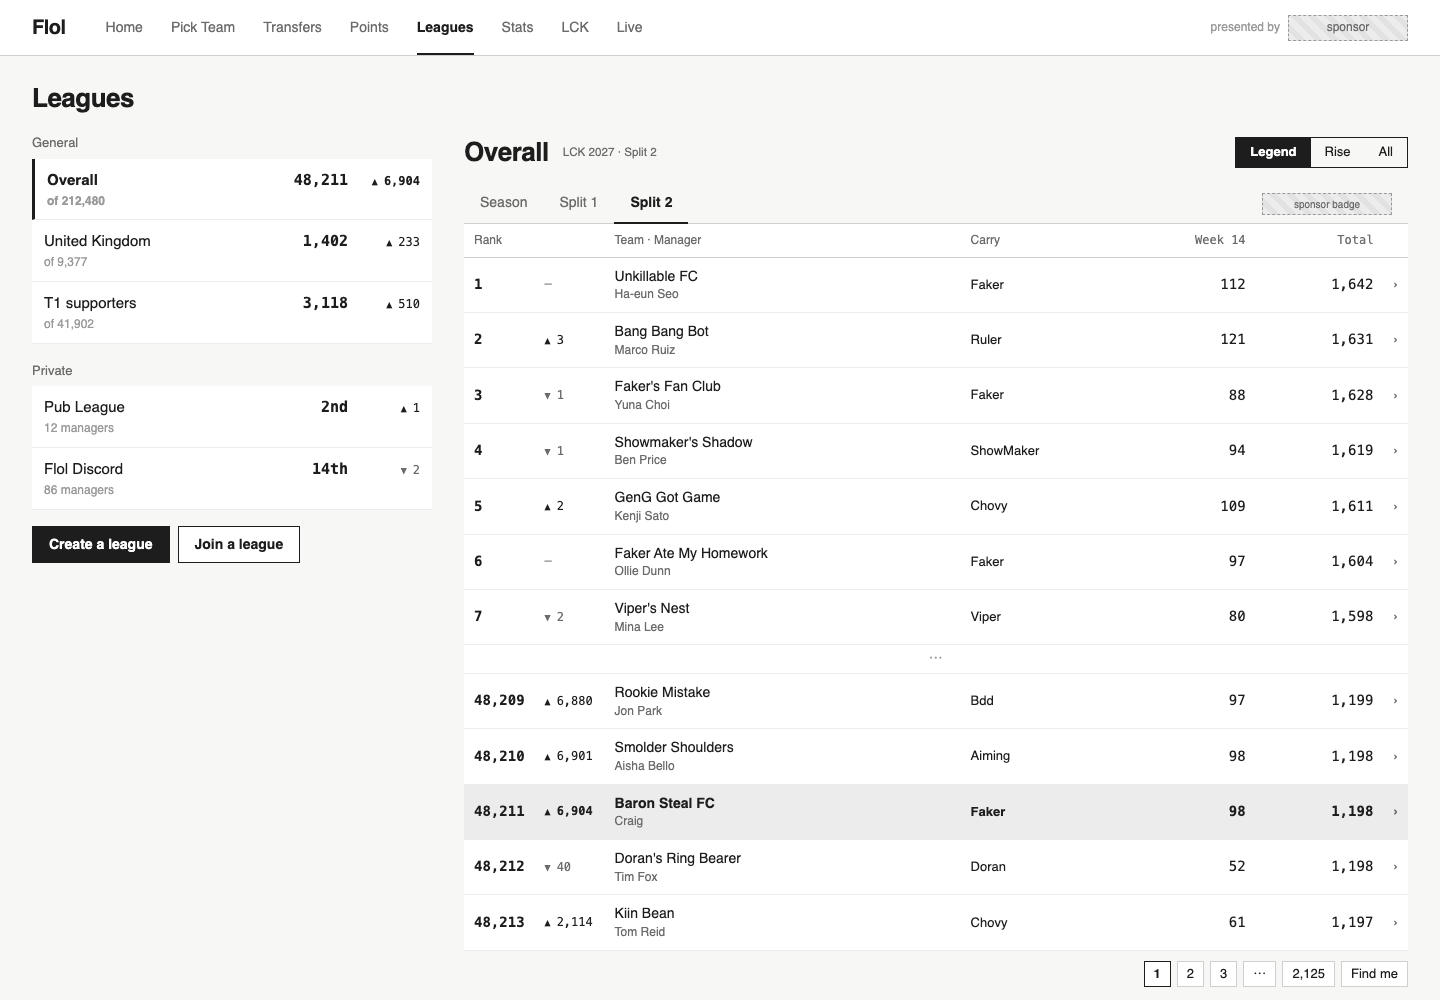
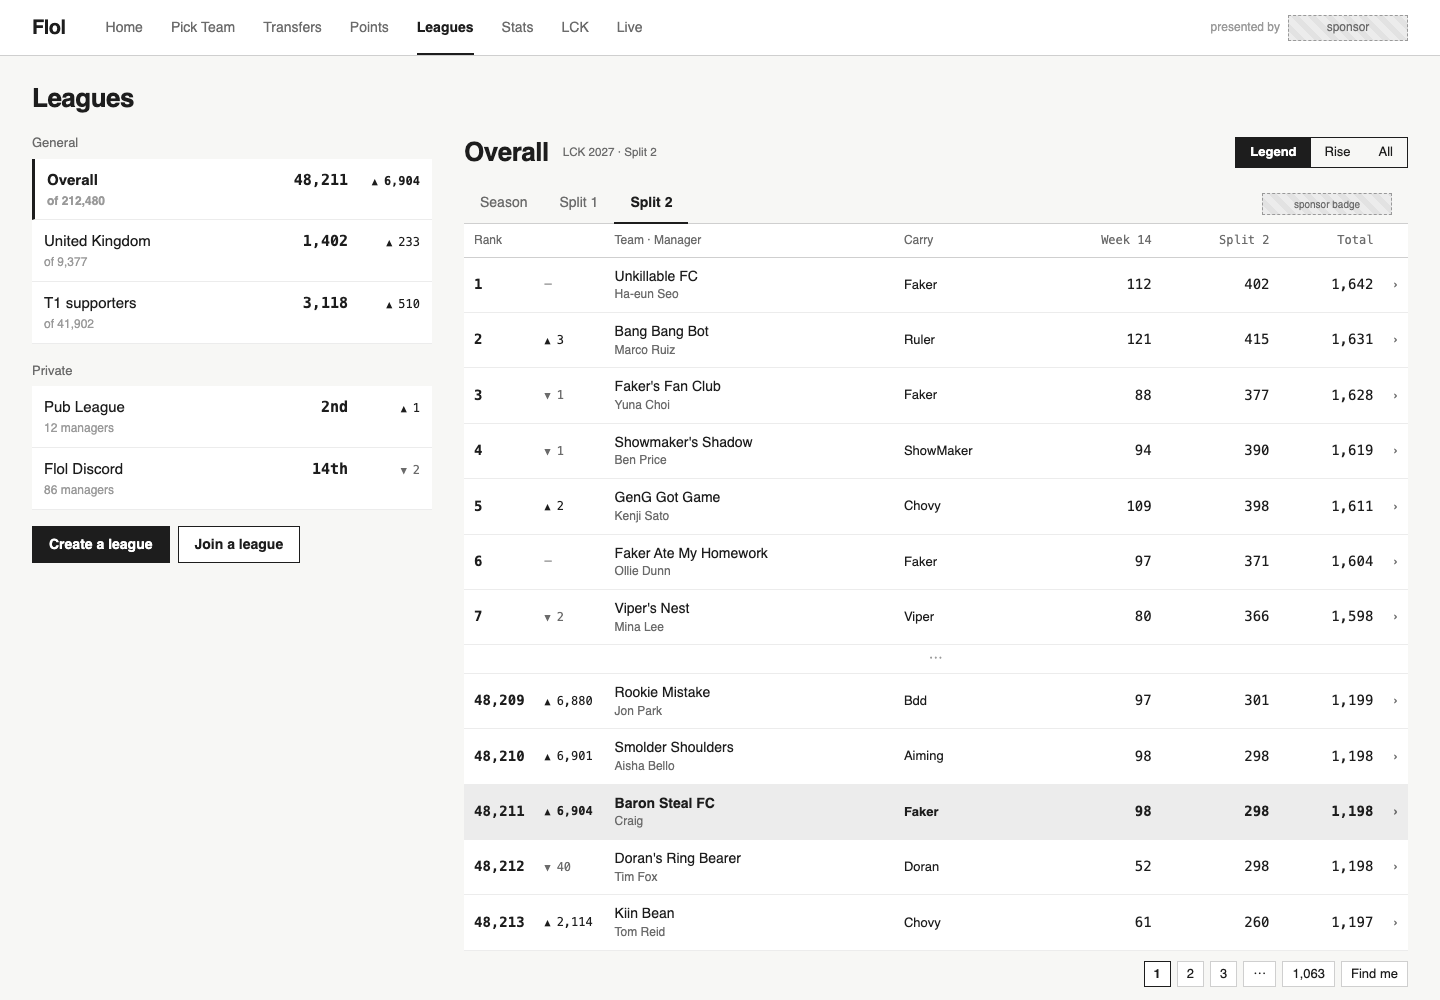
docs: Leagues round; Craig's calls drawn (Split 2 column, scoring from this week)

diff --git a/docs/design/proposals/2026-11-13-leagues/a2.html b/docs/design/proposals/2026-11-13-leagues/a2.html
@@ -66,5 +66,5 @@ table.st td.cy { font-size: 13px; width: 150px; }
 </div>
 <div><div class="hd"><h1>Overall</h1><small>LCK 2027 · Split 2</small><span class="sp"></span><span class="seg"><span class="on">Legend</span><span>Rise</span><span>All</span></span></div>
 <div class="tabs"><span>Season</span><span>Split 1</span><span class="on">Split 2</span><span style="flex:1;border:0"></span><span style="border:0"><span class="ph" style="width:130px;height:22px;font-size:10px">sponsor badge</span></span></div>
-<table class="st"><tr><th>Rank</th><th></th><th>Team · Manager</th><th>Carry</th><th class="n">Week 14</th><th class="n">Total</th><th></th></tr><tr class=""><td class="rk">1</td><td class="mv" style="color:var(--soft)">–</td><td>Unkillable FC<small>Ha-eun Seo</small></td><td class="cy">Faker</td><td class="n">112</td><td class="n">1,642</td><td class="go">›</td></tr><tr class=""><td class="rk">2</td><td class="mv up">3</td><td>Bang Bang Bot<small>Marco Ruiz</small></td><td class="cy">Ruler</td><td class="n">121</td><td class="n">1,631</td><td class="go">›</td></tr><tr class=""><td class="rk">3</td><td class="mv down">1</td><td>Faker's Fan Club<small>Yuna Choi</small></td><td class="cy">Faker</td><td class="n">88</td><td class="n">1,628</td><td class="go">›</td></tr><tr class=""><td class="rk">4</td><td class="mv down">1</td><td>Showmaker's Shadow<small>Ben Price</small></td><td class="cy">ShowMaker</td><td class="n">94</td><td class="n">1,619</td><td class="go">›</td></tr><tr class=""><td class="rk">5</td><td class="mv up">2</td><td>GenG Got Game<small>Kenji Sato</small></td><td class="cy">Chovy</td><td class="n">109</td><td class="n">1,611</td><td class="go">›</td></tr><tr class=""><td class="rk">6</td><td class="mv" style="color:var(--soft)">–</td><td>Faker Ate My Homework<small>Ollie Dunn</small></td><td class="cy">Faker</td><td class="n">97</td><td class="n">1,604</td><td class="go">›</td></tr><tr class=""><td class="rk">7</td><td class="mv down">2</td><td>Viper's Nest<small>Mina Lee</small></td><td class="cy">Viper</td><td class="n">80</td><td class="n">1,598</td><td class="go">›</td></tr><tr class="gap"><td colspan="7">⋯</td></tr><tr class=""><td class="rk">48,209</td><td class="mv up">6,880</td><td>Rookie Mistake<small>Jon Park</small></td><td class="cy">Bdd</td><td class="n">97</td><td class="n">1,199</td><td class="go">›</td></tr><tr class=""><td class="rk">48,210</td><td class="mv up">6,901</td><td>Smolder Shoulders<small>Aisha Bello</small></td><td class="cy">Aiming</td><td class="n">98</td><td class="n">1,198</td><td class="go">›</td></tr><tr class="me"><td class="rk">48,211</td><td class="mv up">6,904</td><td>Baron Steal FC<small>Craig</small></td><td class="cy">Faker</td><td class="n">98</td><td class="n">1,198</td><td class="go">›</td></tr><tr class=""><td class="rk">48,212</td><td class="mv down">40</td><td>Doran's Ring Bearer<small>Tim Fox</small></td><td class="cy">Doran</td><td class="n">52</td><td class="n">1,198</td><td class="go">›</td></tr><tr class=""><td class="rk">48,213</td><td class="mv up">2,114</td><td>Kiin Bean<small>Tom Reid</small></td><td class="cy">Chovy</td><td class="n">61</td><td class="n">1,197</td><td class="go">›</td></tr></table>
-<div class="pager"><span class="on">1</span><span>2</span><span>3</span><span>⋯</span><span>2,125</span><span>Find me</span></div></div></div><div class="made" style="margin-top:28px">All sponsors are made up.</div></div></body></html>
+<table class="st"><tr><th>Rank</th><th></th><th>Team · Manager</th><th>Carry</th><th class="n">Week 14</th><th class="n">Split 2</th><th class="n">Total</th><th></th></tr><tr class=""><td class="rk">1</td><td class="mv" style="color:var(--soft)">–</td><td>Unkillable FC<small>Ha-eun Seo</small></td><td class="cy">Faker</td><td class="n">112</td><td class="n">402</td><td class="n">1,642</td><td class="go">›</td></tr><tr class=""><td class="rk">2</td><td class="mv up">3</td><td>Bang Bang Bot<small>Marco Ruiz</small></td><td class="cy">Ruler</td><td class="n">121</td><td class="n">415</td><td class="n">1,631</td><td class="go">›</td></tr><tr class=""><td class="rk">3</td><td class="mv down">1</td><td>Faker's Fan Club<small>Yuna Choi</small></td><td class="cy">Faker</td><td class="n">88</td><td class="n">377</td><td class="n">1,628</td><td class="go">›</td></tr><tr class=""><td class="rk">4</td><td class="mv down">1</td><td>Showmaker's Shadow<small>Ben Price</small></td><td class="cy">ShowMaker</td><td class="n">94</td><td class="n">390</td><td class="n">1,619</td><td class="go">›</td></tr><tr class=""><td class="rk">5</td><td class="mv up">2</td><td>GenG Got Game<small>Kenji Sato</small></td><td class="cy">Chovy</td><td class="n">109</td><td class="n">398</td><td class="n">1,611</td><td class="go">›</td></tr><tr class=""><td class="rk">6</td><td class="mv" style="color:var(--soft)">–</td><td>Faker Ate My Homework<small>Ollie Dunn</small></td><td class="cy">Faker</td><td class="n">97</td><td class="n">371</td><td class="n">1,604</td><td class="go">›</td></tr><tr class=""><td class="rk">7</td><td class="mv down">2</td><td>Viper's Nest<small>Mina Lee</small></td><td class="cy">Viper</td><td class="n">80</td><td class="n">366</td><td class="n">1,598</td><td class="go">›</td></tr><tr class="gap"><td colspan="8">⋯</td></tr><tr class=""><td class="rk">48,209</td><td class="mv up">6,880</td><td>Rookie Mistake<small>Jon Park</small></td><td class="cy">Bdd</td><td class="n">97</td><td class="n">301</td><td class="n">1,199</td><td class="go">›</td></tr><tr class=""><td class="rk">48,210</td><td class="mv up">6,901</td><td>Smolder Shoulders<small>Aisha Bello</small></td><td class="cy">Aiming</td><td class="n">98</td><td class="n">298</td><td class="n">1,198</td><td class="go">›</td></tr><tr class="me"><td class="rk">48,211</td><td class="mv up">6,904</td><td>Baron Steal FC<small>Craig</small></td><td class="cy">Faker</td><td class="n">98</td><td class="n">298</td><td class="n">1,198</td><td class="go">›</td></tr><tr class=""><td class="rk">48,212</td><td class="mv down">40</td><td>Doran's Ring Bearer<small>Tim Fox</small></td><td class="cy">Doran</td><td class="n">52</td><td class="n">298</td><td class="n">1,198</td><td class="go">›</td></tr><tr class=""><td class="rk">48,213</td><td class="mv up">2,114</td><td>Kiin Bean<small>Tom Reid</small></td><td class="cy">Chovy</td><td class="n">61</td><td class="n">260</td><td class="n">1,197</td><td class="go">›</td></tr></table>
+<div class="pager"><span class="on">1</span><span>2</span><span>3</span><span>⋯</span><span>1,063</span><span>Find me</span></div></div></div><div class="made" style="margin-top:28px">All sponsors are made up.</div></div></body></html>

diff --git a/docs/design/proposals/2026-11-13-leagues/a4b.html b/docs/design/proposals/2026-11-13-leagues/a4b.html
@@ -84,6 +84,6 @@ body { position: relative; }
 <div><div class="hd"><h1>Pub League</h1><small>scoring from Week 1</small><span class="sp"></span><span class="code">PUB-7K2Q</span><span class="btn">Copy link</span><span class="btn">Admin ▾</span></div>
 <div class="tabs"><span class="on">Season</span><span>Split 1</span><span>Split 2</span></div>
 <table class="st"><tr><th>Rank</th><th></th><th>Team · Manager</th><th>Carry</th><th class="n">Week 14</th><th class="n">Total</th><th></th></tr><tr class=""><td class="rk">1</td><td class="mv" style="color:var(--soft)">–</td><td>Kiin Bean<small>Tom Reid</small></td><td class="cy">Chovy</td><td class="n">61</td><td class="n">1,214</td><td class="go">›</td></tr><tr class="me"><td class="rk">2</td><td class="mv up">1</td><td>Baron Steal FC <span class="chase">16 pts to 1st</span><small>Craig</small></td><td class="cy">Faker</td><td class="n">98</td><td class="n">1,198</td><td class="go">›</td></tr><tr class=""><td class="rk">3</td><td class="mv down">1</td><td>Chovy Was Right There<small>Minji Park</small></td><td class="cy">Chovy</td><td class="n">54</td><td class="n">1,187</td><td class="go">›</td></tr><tr class=""><td class="rk">4</td><td class="mv up">2</td><td>Peanut Butter Gank<small>Dan Okafor</small></td><td class="cy">Peyz</td><td class="n">77</td><td class="n">1,160</td><td class="go">›</td></tr><tr class=""><td class="rk">5</td><td class="mv" style="color:var(--soft)">–</td><td>Deft Tomorrow<small>Jae Kim</small></td><td class="cy">Ruler</td><td class="n">66</td><td class="n">1,151</td><td class="go">›</td></tr><tr class=""><td class="rk">6</td><td class="mv down">2</td><td>Guma Gang<small>Sam Hill</small></td><td class="cy">Gumayusi</td><td class="n">49</td><td class="n">1,139</td><td class="go">›</td></tr><tr class=""><td class="rk">7</td><td class="mv up">1</td><td>Zeus Juice<small>Priya Shah</small></td><td class="cy">Zeus</td><td class="n">70</td><td class="n">1,122</td><td class="go">›</td></tr><tr class=""><td class="rk">8</td><td class="mv down">1</td><td>Smeb Nostalgia<small>Liam Byrne</small></td><td class="cy">Kiin</td><td class="n">58</td><td class="n">1,108</td><td class="go">›</td></tr><tr class=""><td class="rk">9</td><td class="mv" style="color:var(--soft)">–</td><td>Ruler of None<small>Ella Wong</small></td><td class="cy">Aiming</td><td class="n">63</td><td class="n">1,097</td><td class="go">›</td></tr><tr class=""><td class="rk">10</td><td class="mv up">1</td><td>BeryL Backup Plan<small>Joe Grant</small></td><td class="cy">Keria</td><td class="n">72</td><td class="n">1,080</td><td class="go">›</td></tr><tr class=""><td class="rk">11</td><td class="mv down">1</td><td>Ambition FC<small>Chris Lee</small></td><td class="cy">Canyon</td><td class="n">41</td><td class="n">1,052</td><td class="go">›</td></tr><tr class=""><td class="rk">12</td><td class="mv" style="color:var(--soft)">–</td><td>Gank Plank<small>Ruth Ade</small></td><td class="cy">Faker</td><td class="n">55</td><td class="n">1,019</td><td class="go">›</td></tr></table></div></div><div class="dim"></div><div class="sheet"><h2>Office Rift</h2>
-<div style="color:var(--mid);font-size:13px">Scoring from Week 15</div>
+<div style="color:var(--mid);font-size:13px">Scoring from Week 14</div>
 <div class="done"><b>OFF-9R3D</b><span class="btn">Copy code</span><span class="btn">Copy link</span></div>
 <div class="row"><span class="btn dark">Open league</span></div></div><div class="made" style="margin-top:28px">All sponsors are made up.</div></div></body></html>

diff --git a/docs/design/proposals/2026-11-13-leagues/a4.html b/docs/design/proposals/2026-11-13-leagues/a4.html
@@ -85,6 +85,6 @@ body { position: relative; }
 <div class="tabs"><span class="on">Season</span><span>Split 1</span><span>Split 2</span></div>
 <table class="st"><tr><th>Rank</th><th></th><th>Team · Manager</th><th>Carry</th><th class="n">Week 14</th><th class="n">Total</th><th></th></tr><tr class=""><td class="rk">1</td><td class="mv" style="color:var(--soft)">–</td><td>Kiin Bean<small>Tom Reid</small></td><td class="cy">Chovy</td><td class="n">61</td><td class="n">1,214</td><td class="go">›</td></tr><tr class="me"><td class="rk">2</td><td class="mv up">1</td><td>Baron Steal FC <span class="chase">16 pts to 1st</span><small>Craig</small></td><td class="cy">Faker</td><td class="n">98</td><td class="n">1,198</td><td class="go">›</td></tr><tr class=""><td class="rk">3</td><td class="mv down">1</td><td>Chovy Was Right There<small>Minji Park</small></td><td class="cy">Chovy</td><td class="n">54</td><td class="n">1,187</td><td class="go">›</td></tr><tr class=""><td class="rk">4</td><td class="mv up">2</td><td>Peanut Butter Gank<small>Dan Okafor</small></td><td class="cy">Peyz</td><td class="n">77</td><td class="n">1,160</td><td class="go">›</td></tr><tr class=""><td class="rk">5</td><td class="mv" style="color:var(--soft)">–</td><td>Deft Tomorrow<small>Jae Kim</small></td><td class="cy">Ruler</td><td class="n">66</td><td class="n">1,151</td><td class="go">›</td></tr><tr class=""><td class="rk">6</td><td class="mv down">2</td><td>Guma Gang<small>Sam Hill</small></td><td class="cy">Gumayusi</td><td class="n">49</td><td class="n">1,139</td><td class="go">›</td></tr><tr class=""><td class="rk">7</td><td class="mv up">1</td><td>Zeus Juice<small>Priya Shah</small></td><td class="cy">Zeus</td><td class="n">70</td><td class="n">1,122</td><td class="go">›</td></tr><tr class=""><td class="rk">8</td><td class="mv down">1</td><td>Smeb Nostalgia<small>Liam Byrne</small></td><td class="cy">Kiin</td><td class="n">58</td><td class="n">1,108</td><td class="go">›</td></tr><tr class=""><td class="rk">9</td><td class="mv" style="color:var(--soft)">–</td><td>Ruler of None<small>Ella Wong</small></td><td class="cy">Aiming</td><td class="n">63</td><td class="n">1,097</td><td class="go">›</td></tr><tr class=""><td class="rk">10</td><td class="mv up">1</td><td>BeryL Backup Plan<small>Joe Grant</small></td><td class="cy">Keria</td><td class="n">72</td><td class="n">1,080</td><td class="go">›</td></tr><tr class=""><td class="rk">11</td><td class="mv down">1</td><td>Ambition FC<small>Chris Lee</small></td><td class="cy">Canyon</td><td class="n">41</td><td class="n">1,052</td><td class="go">›</td></tr><tr class=""><td class="rk">12</td><td class="mv" style="color:var(--soft)">–</td><td>Gank Plank<small>Ruth Ade</small></td><td class="cy">Faker</td><td class="n">55</td><td class="n">1,019</td><td class="go">›</td></tr></table></div></div><div class="dim"></div><div class="sheet"><h2>Create a league</h2>
 <label>Name</label><div class="in">Office Rift<span class="soft">11 / 30</span></div>
-<label>Scoring starts</label><div class="in">Week 15 · Wed 17 Feb<span>▾</span></div>
+<label>Scoring starts</label><div class="in">Week 14 · Wed 10 Feb<span>▾</span></div>
 <div class="row"><a class="back">Back</a><span class="btn dark">Create</span></div>
 <div class="count">Private leagues: 2 of 25</div></div><div class="made" style="margin-top:28px">All sponsors are made up.</div></div></body></html>

diff --git a/docs/design/proposals/2026-11-13-leagues/build.py b/docs/design/proposals/2026-11-13-leagues/build.py
@@ -158,7 +158,7 @@ A2 = A.replace(lst_row(*MINE[0]), OV_ROW).replace(lst_row(*PRIV[0], on=True), ls
 a2_right = f'''<div><div class="hd"><h1>Overall</h1><small>LCK 2027 · Split 2</small><span class="sp"></span><span class="seg"><span class="on">Legend</span><span>Rise</span><span>All</span></span></div>
 <div class="tabs"><span>Season</span><span>Split 1</span><span class="on">Split 2</span><span style="flex:1;border:0"></span><span style="border:0"><span class="ph" style="width:130px;height:22px;font-size:10px">sponsor badge</span></span></div>
 <table class="st">{HEAD}{rows(LEG)}<tr class="gap"><td colspan="7">⋯</td></tr>{rows(NEAR)}</table>
-<div class="pager"><span class="on">1</span><span>2</span><span>3</span><span>⋯</span><span>2,125</span><span>Find me</span></div></div>'''
+<div class="pager"><span class="on">1</span><span>2</span><span>3</span><span>⋯</span><span>1,063</span><span>Find me</span></div></div>'''
 start = A2.index('<div><div class="hd"><h1>Pub League</h1>')
 A2 = A2[:start] + a2_right + '</div>'
 A2 = A2.replace('<td>Baron Steal FC <span class="chase">16 pts to 1st</span><small>Craig</small></td>', '<td>Baron Steal FC <span class="chase">1 to climb</span><small>Craig</small></td>')
@@ -189,13 +189,13 @@ MENU = '''<div class="menu"><a>Rename</a><a>Remove a manager</a><a class="bad">D
 
 CREATE = '''<div class="dim"></div><div class="sheet"><h2>Create a league</h2>
 <label>Name</label><div class="in">Office Rift<span class="soft">11 / 30</span></div>
-<label>Scoring starts</label><div class="in">Week 15 · Wed 17 Feb<span>▾</span></div>
+<label>Scoring starts</label><div class="in">Week 14 · Wed 10 Feb<span>▾</span></div>
 <div class="row"><a class="back">Back</a><span class="btn dark">Create</span></div>
 <div class="count">Private leagues: 2 of 25</div></div>'''
 (d / "a4.html").write_text(page("Leagues · A4 · Create", A + CREATE, A_CSS + CH + SHEET_CSS))
 
 CREATED = '''<div class="dim"></div><div class="sheet"><h2>Office Rift</h2>
-<div style="color:var(--mid);font-size:13px">Scoring from Week 15</div>
+<div style="color:var(--mid);font-size:13px">Scoring from Week 14</div>
 <div class="done"><b>OFF-9R3D</b><span class="btn">Copy code</span><span class="btn">Copy link</span></div>
 <div class="row"><span class="btn dark">Open league</span></div></div>'''
 (d / "a4b.html").write_text(page("Leagues · A4b · Created", A + CREATED, A_CSS + CH + SHEET_CSS))
@@ -235,3 +235,12 @@ LEAVE = '''<div class="dim"></div><div class="sheet"><h2>Leave Flol Discord?</h2
 <div style="font-size:15px">14th of 86</div>
 <div class="row"><a class="back">Back</a><span class="btn dark">Leave</span></div></div>'''
 (d / "a8.html").write_text(page("Leagues · A8 · Leave", MEMBER2 + LEAVE, A_CSS + CH + SHEET_CSS))
+
+# Split 2 on Legend/Rise (Craig, 14 Nov): Total is season points, with a Split 2 column beside it.
+SP2 = {"1,642": "402", "1,631": "415", "1,628": "377", "1,619": "390", "1,611": "398", "1,604": "371", "1,598": "366",
+       "1,199": "301", "1,198": "298", "1,197": "260"}
+import re as _re
+A2b = A2.replace('<th class="n">Week 14</th><th class="n">Total</th>', '<th class="n">Week 14</th><th class="n">Split 2</th><th class="n">Total</th>')
+A2b = _re.sub(r'<td class="n">(\d+)</td><td class="n">([\d,]+)</td>', lambda m: f'<td class="n">{m.group(1)}</td><td class="n">{SP2.get(m.group(2), "300")}</td><td class="n">{m.group(2)}</td>', A2b)
+A2b = A2b.replace('colspan="7"', 'colspan="8"')
+(d / "a2.html").write_text(page("Leagues · A2 · Overall in Split 2", A2b, A_CSS + CH))
